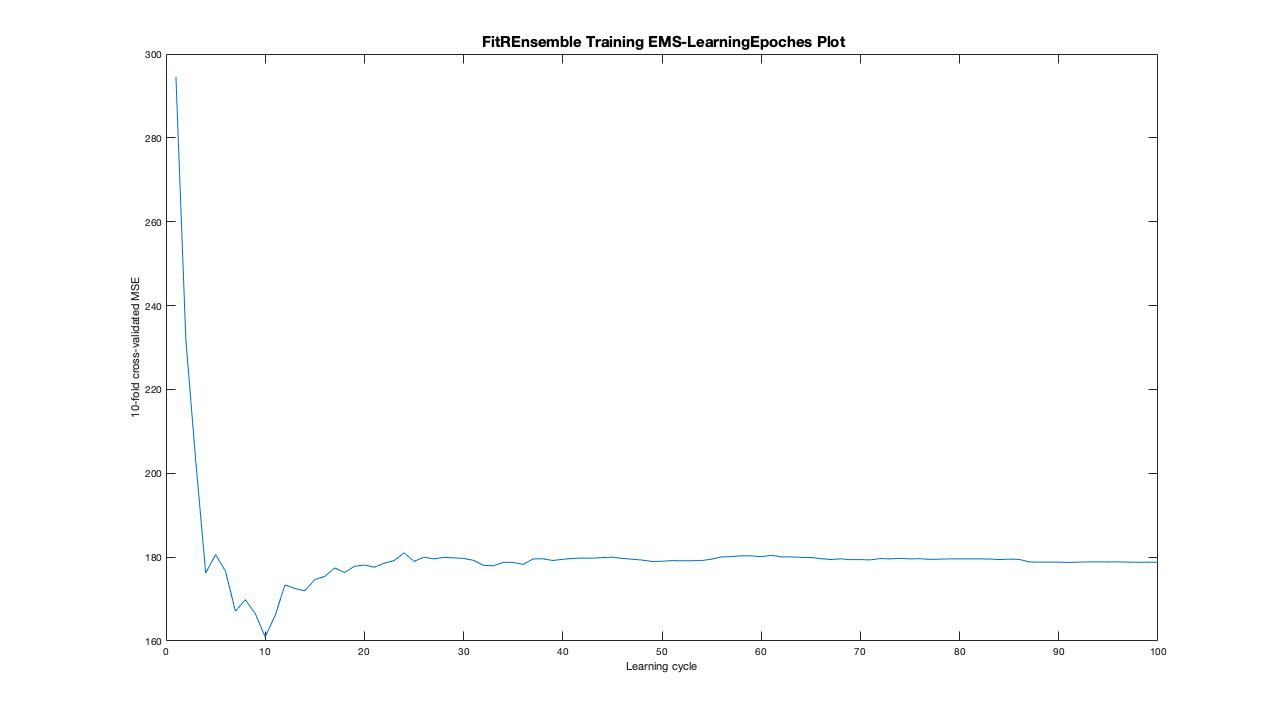
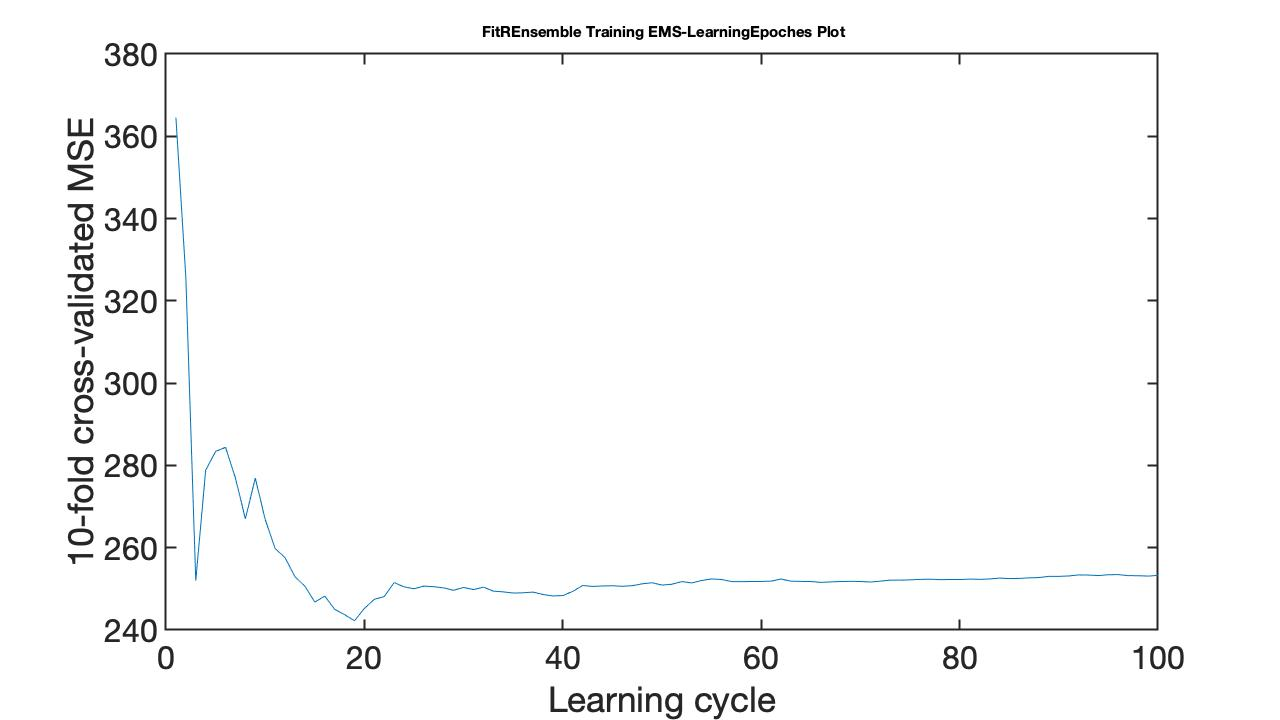
Complete

diff --git a/multiMethods/describeRensemble.m b/multiMethods/describeRensemble.m
@@ -12,6 +12,8 @@ function [RMSE, R] = describeRensemble(data, index, figure_param)
     title('\fontsize{15} FitREnsemble Training EMS-LearningEpoches Plot', 'Interpreter', 'tex');
     ylabel('10-fold cross-validated MSE');
     xlabel('Learning cycle');
+    set(gca,'FontSize',32);
+    set(gca,'LineWidth',2);
     
     % Train another tree with fitrensemble.
     Mdl2 = fitrensemble(inputs, target, 'CrossVal', 'off');

diff --git a/multiMethods/describeTreeBagger.m b/multiMethods/describeTreeBagger.m
@@ -13,7 +13,7 @@ function [RMSE, R] = describeTreeBagger(data, index, figure_param)
     xlabel('Number of Trees','FontSize',30);
     ylabel('Out of Bag Error','FontSize',30);
     title('Out of Bag Error','FontSize',30);
-    set(gca,'FontSize',16);
+    set(gca,'FontSize',32);
     set(gca,'LineWidth',2);
     
     % Calculate RMSE and R.

diff --git a/README.md b/README.md
@@ -6,28 +6,64 @@
 
 ## MLAnalysis - by Xun
 
-### Result Conclusion
+### RESULT OF ANALYSIS
 
 * Based on current result, TreeBagger is the recommended algorithm.
 * Table listed all algorithms' performance:
 
-| Algorithm | RMSE | R |
-| :-:     | :-: | :-: |
-| FitREnsemble | 17.1144 | 0.8967 |
-| SVM | 758.27 | -0.0634 |
-| TreeBagger | 4.0932 | 0.9909 |
+    | Algorithm | RMSE | R |
+    | :-:     | :-: | :-: |
+    | FitREnsemble | 17.1144 | 0.8967 |
+    | SVM | 758.27 | -0.0634 |
+    | TreeBagger | 4.0932 | 0.9909 |
 
 * MSRE convergence during training:
 
-1. FitREnsemble: MSE value converge according to the increase of learning cycles. Fig below. ![Image of FitREnsemble](https://github.com/mi3nts/nextRadPMAnalysis/blob/master/fitrensemble.jpg)
+1. FitREnsemble: MSE value converge according to the increase of learning cycles. Figure below. ![Image of FitREnsemble](https://github.com/mi3nts/nextRadPMAnalysis/blob/master/fitrensemble.jpg)
 
-2. TreeBagger: MSE value converge according to the increase of tree number. ![Image of TreeBagger](https://github.com/mi3nts/nextRadPMAnalysis/blob/master/treebagger.jpg)
+2. TreeBagger: MSE value converge according to the increase of tree number. Figure below. ![Image of TreeBagger](https://github.com/mi3nts/nextRadPMAnalysis/blob/master/treebagger.jpg)
 
-### How to: Download the code and Run locally
+### INSTRUCTION ON CODE RUNNING
 
-### Folder Description
+1. In terminal, navigate to a folder (which will be used as the parent folder of code repo) and clone the repository. (the '$' sign represents the prompt string)
+
+    ```shell
+    $ cd ~/route/to/the/wanted/folder && git clone https://github.com/mi3nts/nextRadPMAnalysis.git
+    Cloning into 'nextRadPMAnalysis'...
+    remote: Enumerating objects: 130, done.
+    remote: Counting objects: 100% (130/130), done.
+    remote: Compressing objects: 100% (105/105), done.
+    remote: Total 130 (delta 41), reused 96 (delta 22), pack-reused 0
+    Receiving objects: 100% (130/130), 65.84 KiB | 898.00 KiB/s, done.
+    Resolving deltas: 100% (41/41), done.
+    ```
+
+2. Download the data file [mints_NextRadWithGrimmAndFWNode_1_1_data_from_12-Feb-2019_to_11-Apr-2019.mat (click to download)](https://utdallas.box.com/s/edae5jivt5r7m41az5ba3wayjd855nd4) and place it under "`~/route/to/the/wanted/folder/nextRadPMAnalysis/multiMethods`". Note: refers to ***CODE REPO STRUCTURE*** for example.
+
+3. Start matlab and navigate to the code repo. Double click on the `main.m` script. Click on the `run` button. The result will then be stored in `result` object.
+
+### CODE REPO STRUCTURE
+
+* the folder GRIMM is not shown here.
+
+```bash
+.
+└── nextRadPMAnalysis
+    ├── README.md
+    ├── fitrensemble.jpg
+    ├── multiMethods
+    │   ├── FigureParam.m
+    │   ├── describeNeuralNet.m
+    │   ├── describeRensemble.m
+    │   ├── describeSVMlinear.m
+    │   ├── describeTreeBagger.m
+    │   ├── loadTable.m
+    │   ├── main.m
+    │   └── mints_NextRadWithGrimmAndFWNode_1_1_data_from_12-Feb-2019_to_11-Apr-2019.mat
+    └── treebagger.jpg
+```
 
 ### TODO
 
 * Finish shallow Neural Network time series analysis on data.
-* Work on place the data on NAS Volume and modify the data link in script.
+* Modify and generalize the `loadTable.m` to enable the script to load and format all data tables in NAS. And get access to NAS.
